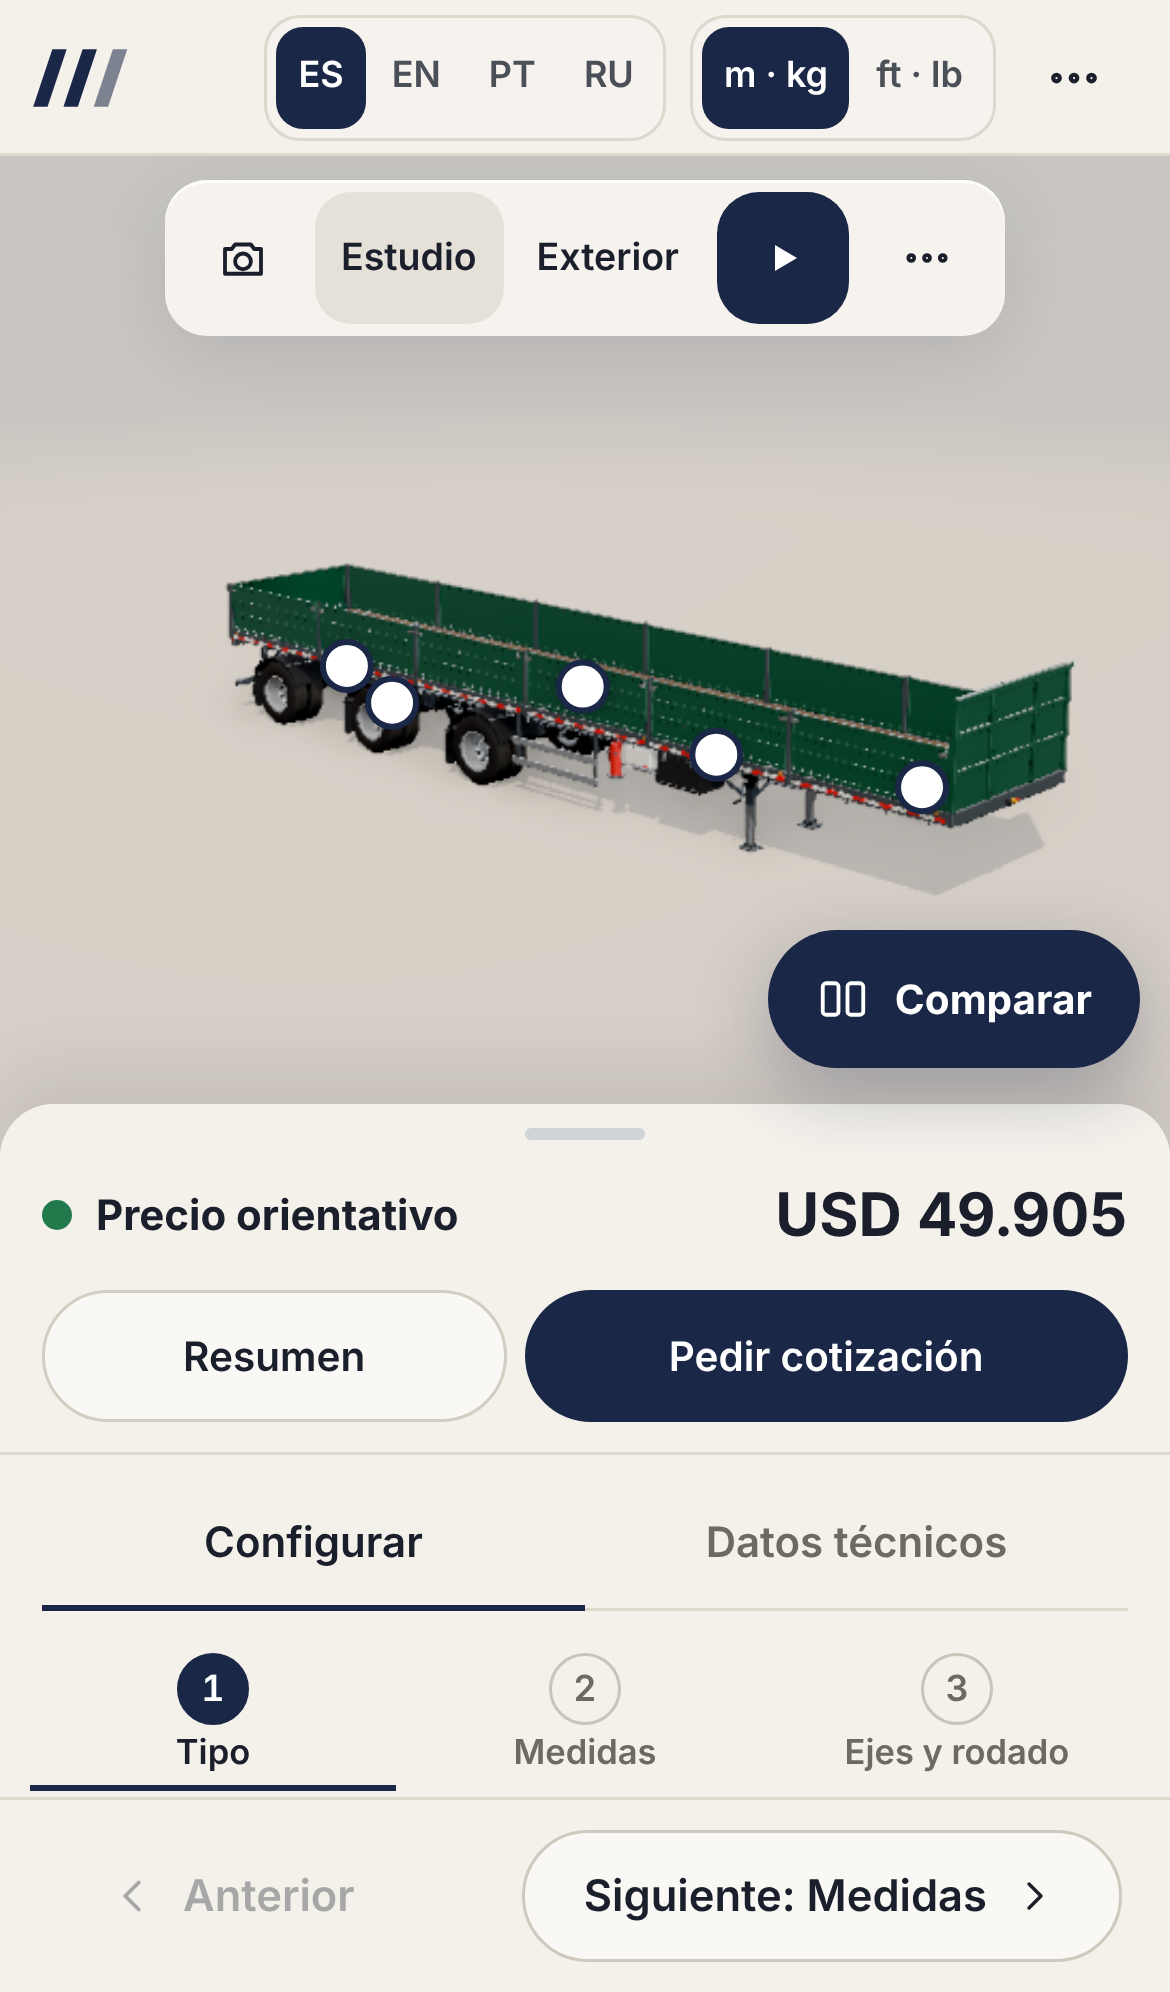
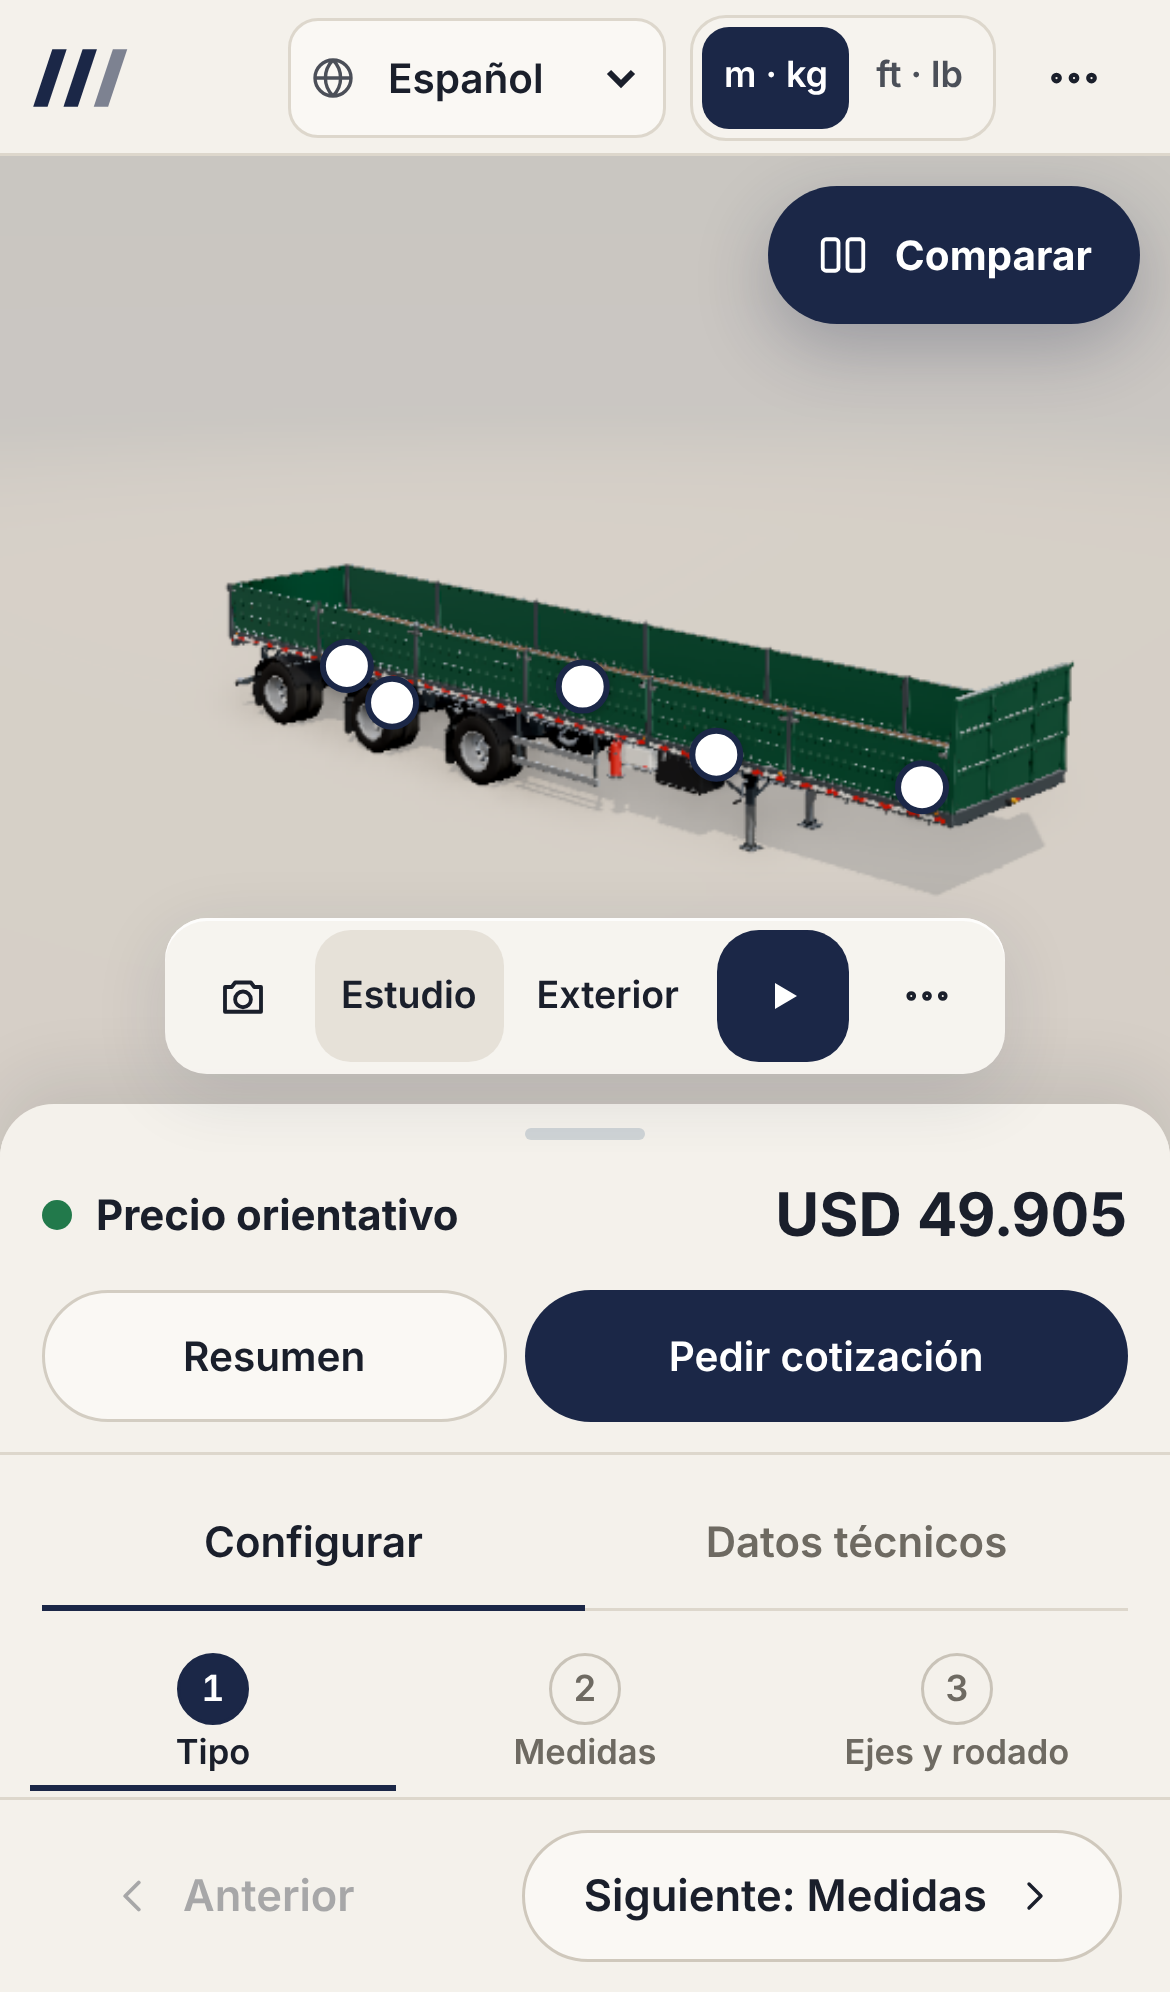
Precio arriba a la izquierda, controles abajo y selector de idioma desplegable
Mismo orden que el configurador de sembradoras: la tarjeta de precio y
datos va arriba a la izquierda, la barra de controles abajo (los menús se
abren hacia arriba) y el idioma vuelve a ser un desplegable.

Claude-Session: https://claude.ai/code/session_01WMh8Zpj3ehh47PnZQjhqLS

Changed region(s): [[0.1231, 0.0, 0.9846, 0.1867], [0.1231, 0.4357, 0.9846, 0.5602]]

diff --git a/src/ui/styles.css b/src/ui/styles.css
@@ -71,6 +71,7 @@ h1, h2, h3, h4, p { margin: 0; }
 .stage { position: relative; overflow: hidden; background: var(--escenario); min-height: 0; min-width: 0; }
 .stage:fullscreen { width: 100vw; height: 100vh; }
 .stage:fullscreen .price-float, .stage:fullscreen .compare-fab { display: none; }
+.stage:fullscreen .topbar { transform: none; max-width: calc(100% - 24px); }
 
 .viewer { position: absolute; inset: 0; touch-action: none; }
 .viewer canvas { display: block; }
@@ -294,8 +295,8 @@ textarea.input { padding: 10px 12px; min-height: 84px; resize: vertical; }
 .dot-bad { background: var(--error); }
 
 /* ---------- Capas sobre el visor ---------- */
-/* Barra única arriba al centro: cámaras | escenario | acción | más, captura, pantalla completa */
-.topbar { position: absolute; top: 14px; left: 0; right: 0; margin: 0 auto; width: fit-content; max-width: calc(100% - 24px); z-index: 12; display: flex; flex-wrap: wrap; justify-content: center; align-items: center; gap: 2px; padding: 5px; background: var(--vidrio); border-radius: 18px; box-shadow: 0 6px 24px rgba(27, 39, 71, 0.12), 0 1px 0 rgba(255, 255, 255, 0.8) inset; }
+/* Barra única abajo (centrada en el espacio libre a la izquierda de Comparar): cámaras | escenario | acción | más, captura, pantalla completa */
+.topbar { position: absolute; bottom: 14px; left: 0; right: 0; margin: 0 auto; width: fit-content; max-width: calc(100% - 200px); transform: translateX(-80px); z-index: 12; display: flex; flex-wrap: wrap; justify-content: center; align-items: center; gap: 2px; padding: 5px; background: var(--vidrio); border-radius: 18px; box-shadow: 0 6px 24px rgba(27, 39, 71, 0.12), 0 1px 0 rgba(255, 255, 255, 0.8) inset; }
 .tb-btn { display: inline-flex; align-items: center; gap: 7px; min-height: 40px; padding: 0 12px; border: 0; border-radius: 12px; background: transparent; color: var(--texto); font-weight: 600; font-size: 13.5px; white-space: nowrap; }
 .tb-btn:hover { background: #ebe6dd; }
 .tb-btn.is-sel { background: #e6e1d8; }
@@ -311,7 +312,7 @@ textarea.input { padding: 10px 12px; min-height: 84px; resize: vertical; }
 .tb-btn.is-loading::after { content: ''; position: absolute; left: 0; bottom: 0; height: 3px; width: 40%; background: var(--acento); border-radius: 2px; animation: cargando 1s ease-in-out infinite alternate; }
 @keyframes cargando { from { transform: translateX(0); } to { transform: translateX(150%); } }
 .pop-anchor { position: relative; }
-.popover { position: absolute; top: calc(100% + 10px); left: 0; min-width: 230px; padding: 6px; display: flex; flex-direction: column; background: var(--sup); border: 1px solid var(--borde); border-radius: 12px; box-shadow: var(--sombra); z-index: 20; }
+.popover { position: absolute; bottom: calc(100% + 10px); left: 0; min-width: 230px; padding: 6px; display: flex; flex-direction: column; background: var(--sup); border: 1px solid var(--borde); border-radius: 12px; box-shadow: var(--sombra); z-index: 20; }
 .popover.pop-right { left: auto; right: 0; }
 .popover button { display: flex; align-items: center; gap: 10px; width: 100%; min-height: 44px; padding: 0 12px; border: 0; border-radius: 8px; background: transparent; color: var(--texto); font-weight: 500; font-size: 14px; text-align: left; }
 .popover button:hover { background: var(--sup2); }
@@ -320,8 +321,8 @@ textarea.input { padding: 10px 12px; min-height: 84px; resize: vertical; }
 .popover kbd { margin-left: auto; }
 kbd { display: inline-grid; place-items: center; min-width: 1.6em; padding: 0.05em 0.4em; border-radius: 5px; border: 1px solid var(--borde); background: var(--tinte); font: 700 11px ui-monospace, monospace; color: var(--texto2); }
 
-/* Tarjeta de precio y datos (abajo a la izquierda) */
-.price-float { position: absolute; left: 14px; bottom: 14px; z-index: 11; width: min(400px, 46%); }
+/* Tarjeta de precio y datos (arriba a la izquierda) */
+.price-float { position: absolute; left: 14px; top: 14px; z-index: 11; width: min(400px, 46%); }
 .pcard { flex: none; display: flex; flex-direction: column; background: rgba(247, 245, 241, 0.98); border-radius: 14px; box-shadow: 0 6px 24px rgba(27, 39, 71, 0.12); overflow: hidden; }
 .pcard-head { display: flex; align-items: center; gap: 8px; width: 100%; min-height: 44px; padding: 10px 14px; border: 0; background: transparent; text-align: left; }
 .pcard-title { font-weight: 700; font-size: 14px; color: var(--texto); }
@@ -340,7 +341,7 @@ kbd { display: inline-grid; place-items: center; min-width: 1.6em; padding: 0.05
 .compare-fab { position: absolute; right: 18px; bottom: 14px; z-index: 11; display: inline-flex; align-items: center; gap: 8px; min-height: 46px; padding: 0 20px; border: 0; border-radius: 999px; background: var(--acento); color: var(--acento-texto); font-weight: 700; font-size: 14.5px; box-shadow: 0 8px 24px rgba(27, 39, 71, 0.28); }
 .compare-fab:hover { background: color-mix(in srgb, var(--acento) 85%, #000); }
 
-.notices { position: absolute; top: 76px; left: 50%; transform: translateX(-50%); display: grid; gap: 8px; width: min(420px, calc(100% - 32px)); z-index: 12; pointer-events: none; }
+.notices { position: absolute; top: 14px; right: 14px; display: grid; gap: 8px; width: min(380px, calc(100% - 28px)); z-index: 12; pointer-events: none; }
 .notice { pointer-events: auto; display: grid; grid-template-columns: auto 1fr auto; gap: 8px; align-items: start; padding: 12px 8px 12px 14px; border-radius: 14px; background: #fff; border-left: 4px solid #e0a100; box-shadow: var(--sombra); font-size: 13.5px; }
 .notice svg { color: #7a5600; margin-top: 1px; }
 .notice .icon-btn { width: 32px; height: 32px; margin: -6px 0; }
@@ -355,10 +356,10 @@ kbd { display: inline-grid; place-items: center; min-width: 1.6em; padding: 0.05
 .hotspot i { width: 18px; height: 18px; border-radius: 50%; background: #fff; border: 2.5px solid var(--acento); box-shadow: 0 1px 4px rgba(0, 0, 0, 0.25); transition: transform 0.15s, background 0.15s; }
 .hotspot:hover i { transform: scale(1.25); }
 .hotspot.is-on i { background: var(--acento); }
-.hotcard { position: absolute; right: 18px; top: 76px; width: min(340px, calc(100% - 36px)); padding: 16px 8px 16px 18px; border-radius: 14px; background: rgba(250, 248, 244, 0.98); border-left: 4px solid var(--acento); box-shadow: var(--sombra); z-index: 15; display: grid; grid-template-columns: 1fr auto; gap: 4px 6px; }
+.hotcard { position: absolute; left: 14px; bottom: 84px; width: min(340px, calc(100% - 36px)); padding: 16px 8px 16px 18px; border-radius: 14px; background: rgba(250, 248, 244, 0.98); border-left: 4px solid var(--acento); box-shadow: var(--sombra); z-index: 15; display: grid; grid-template-columns: 1fr auto; gap: 4px 6px; }
 .hotcard h4 { font-family: var(--display); font-size: 17px; font-weight: 800; align-self: center; }
 .hotcard p { grid-column: 1 / -1; color: var(--texto2); font-size: 14px; padding-right: 8px; }
-.ayuda-visor { position: absolute; left: 50%; top: 76px; transform: translateX(-50%); padding: 6px 12px; border-radius: 999px; background: color-mix(in srgb, var(--acento) 82%, transparent); color: #fff; font-size: 12.5px; font-weight: 600; pointer-events: none; z-index: 9; white-space: nowrap; transition: opacity 0.6s; }
+.ayuda-visor { position: absolute; left: 50%; bottom: 76px; transform: translateX(calc(-50% - 80px)); padding: 6px 12px; border-radius: 999px; background: color-mix(in srgb, var(--acento) 82%, transparent); color: #fff; font-size: 12.5px; font-weight: 600; pointer-events: none; z-index: 9; white-space: nowrap; transition: opacity 0.6s; }
 /* ---------- Modal ---------- */
 .modal-backdrop { position: fixed; inset: 0; z-index: 50; display: grid; place-items: center; padding: 1rem; background: rgba(28, 35, 51, 0.38); backdrop-filter: blur(5px); }
 .modal { width: min(560px, 100%); max-height: min(92vh, 100%); display: flex; flex-direction: column; border-radius: 18px; background: var(--sup); border: 1px solid var(--borde); box-shadow: 0 30px 90px rgba(28, 35, 51, 0.28); outline: none; }
@@ -414,6 +415,7 @@ kbd { display: inline-grid; place-items: center; min-width: 1.6em; padding: 0.05
   .demo-badge { display: none; }
 }
 @media (max-width: 1100px) {
+  .topbar { transform: none; max-width: calc(100% - 24px); bottom: 74px; }
   .tb-label { display: none; }
   .tb-primary .tb-label { display: inline; }
   .tb-scenes .tb-btn { padding: 0 9px; }
@@ -444,18 +446,18 @@ kbd { display: inline-grid; place-items: center; min-width: 1.6em; padding: 0.05
   .steps-nav ol { grid-template-columns: repeat(3, minmax(0, 1fr)); row-gap: 4px; }
   .step-tab { font-size: 11.5px; min-height: 50px; }
   .steps-foot { position: sticky; bottom: 0; z-index: 2; }
-  .topbar { top: 8px; padding: 4px; border-radius: 14px; max-width: calc(100% - 16px); }
+  .topbar { top: auto; bottom: 26px; padding: 4px; border-radius: 14px; max-width: calc(100% - 16px); transform: none; }
   .tb-btn, .tb-btn.tb-icon { min-height: 44px; min-width: 44px; padding: 0 8px; font-size: 12.5px; justify-content: center; }
   .tb-label { display: none !important; }
   .tb-sep { display: none; }
   .tb-primary { padding: 0 12px; margin: 0 2px; }
-  .compare-fab { top: auto; bottom: 28px; right: 10px; min-height: 46px; padding: 0 16px; font-size: 13.5px; }
+  .compare-fab { top: 10px; bottom: auto; right: 10px; min-height: 46px; padding: 0 16px; font-size: 13.5px; }
   .popover { max-height: calc(50dvh - 7rem); overflow-y: auto; }
   .lu-langs button { min-width: 28px; padding: 0 6px; }
   .lu .seg-mini button { padding: 0 7px; }
   .header-right { gap: 4px; }
-  .notices { top: 108px; }
-  .hotcard { top: auto; bottom: 86px; left: 10px; right: 10px; width: auto; }
+  .notices { top: 66px; right: 10px; }
+  .hotcard { top: auto; bottom: 84px; left: 10px; right: 10px; width: auto; }
   .ayuda-visor { display: none; }
   .kpi-grid { grid-template-columns: repeat(2, minmax(0, 1fr)); }
   .tipo-card { min-height: 0; }

diff --git a/src/ui/Header.tsx b/src/ui/Header.tsx
@@ -1,22 +1,27 @@
 import { useEffect, useRef, useState } from 'react';
 import { brand } from '@/core/catalog';
+import type { Lang } from '@/core/types';
 import { changeLang, HTML_LANG, LANG_NAMES, LANGS, useI18n } from '@/i18n';
 import { useStore } from '@/state/store';
 import { Icon } from './Icon';
 
-/** Selector de idioma (ES · EN · PT · RU) y de sistema de unidades (encabezado y modo embebido). */
+/** Selector de idioma (desplegable) y de sistema de unidades (encabezado y modo embebido). */
 export function LangUnitControls() {
   const { t, lang, units } = useI18n();
   const setUi = useStore((s) => s.setUi);
   return (
     <div className="lu">
-      <div className="seg seg-mini lu-langs" role="radiogroup" aria-label={t('top.idioma')} data-testid="sel-idioma">
-        {LANGS.map((l) => (
-          <button key={l} type="button" role="radio" aria-checked={lang === l} aria-label={LANG_NAMES[l]} title={LANG_NAMES[l]} lang={HTML_LANG[l]} className={lang === l ? 'is-on' : ''} onClick={() => void changeLang(l)} data-testid={`lang-${l}`}>
-            {l.toUpperCase()}
-          </button>
-        ))}
-      </div>
+      <label className="lu-lang">
+        <Icon name="globo" size={16} />
+        <span className="sr-only">{t('top.idioma')}</span>
+        <select className="select select-bare" value={lang} onChange={(e) => void changeLang(e.target.value as Lang)} aria-label={t('top.idioma')} data-testid="sel-idioma">
+          {LANGS.map((l) => (
+            <option key={l} value={l} lang={HTML_LANG[l]}>
+              {LANG_NAMES[l]}
+            </option>
+          ))}
+        </select>
+      </label>
       <div className="seg seg-mini" role="radiogroup" aria-label={t('top.unidades')}>
         {(['metric', 'imperial'] as const).map((u) => (
           <button key={u} type="button" role="radio" aria-checked={units === u} aria-label={t(`top.unidades.${u}`)} title={t(`top.unidades.${u}`)} className={units === u ? 'is-on' : ''} onClick={() => setUi({ unidades: u })} data-testid={`unidades-${u}`}>

diff --git a/README.md b/README.md
@@ -16,7 +16,7 @@ El comprador arma su equipo (tolva cerealera, batea volcadora, plataforma con ba
 - Resumen, comparador A/B, link compartible, PDF de cotización, consulta por WhatsApp o mail.
 - Modo vendedor (`?modo=vendedor`) y modo embebido (`/embed`).
 - Español rioplatense (por defecto), inglés, portugués de Brasil y ruso, con selector en el encabezado. Sistema métrico (m · kg) o imperial (ft · lb).
-- Mismo formato visual que los otros configuradores Umbral_exp (estilo ficha de producto): barra única arriba del visor (cámaras, escenario, "Ver en acción", pantalla completa), tarjeta de precio y datos abajo a la izquierda, botón Comparar, pestañas Configurar / Datos técnicos e idiomas ES · EN · PT · RU en el encabezado.
+- Mismo formato visual que los otros configuradores Umbral_exp (estilo ficha de producto): tarjeta de precio y datos arriba a la izquierda, barra de controles abajo (cámaras, escenario, "Ver en acción", pantalla completa), botón Comparar, pestañas Configurar / Datos técnicos y selector de idioma en el encabezado.
 
 ## Cómo correrlo
 
